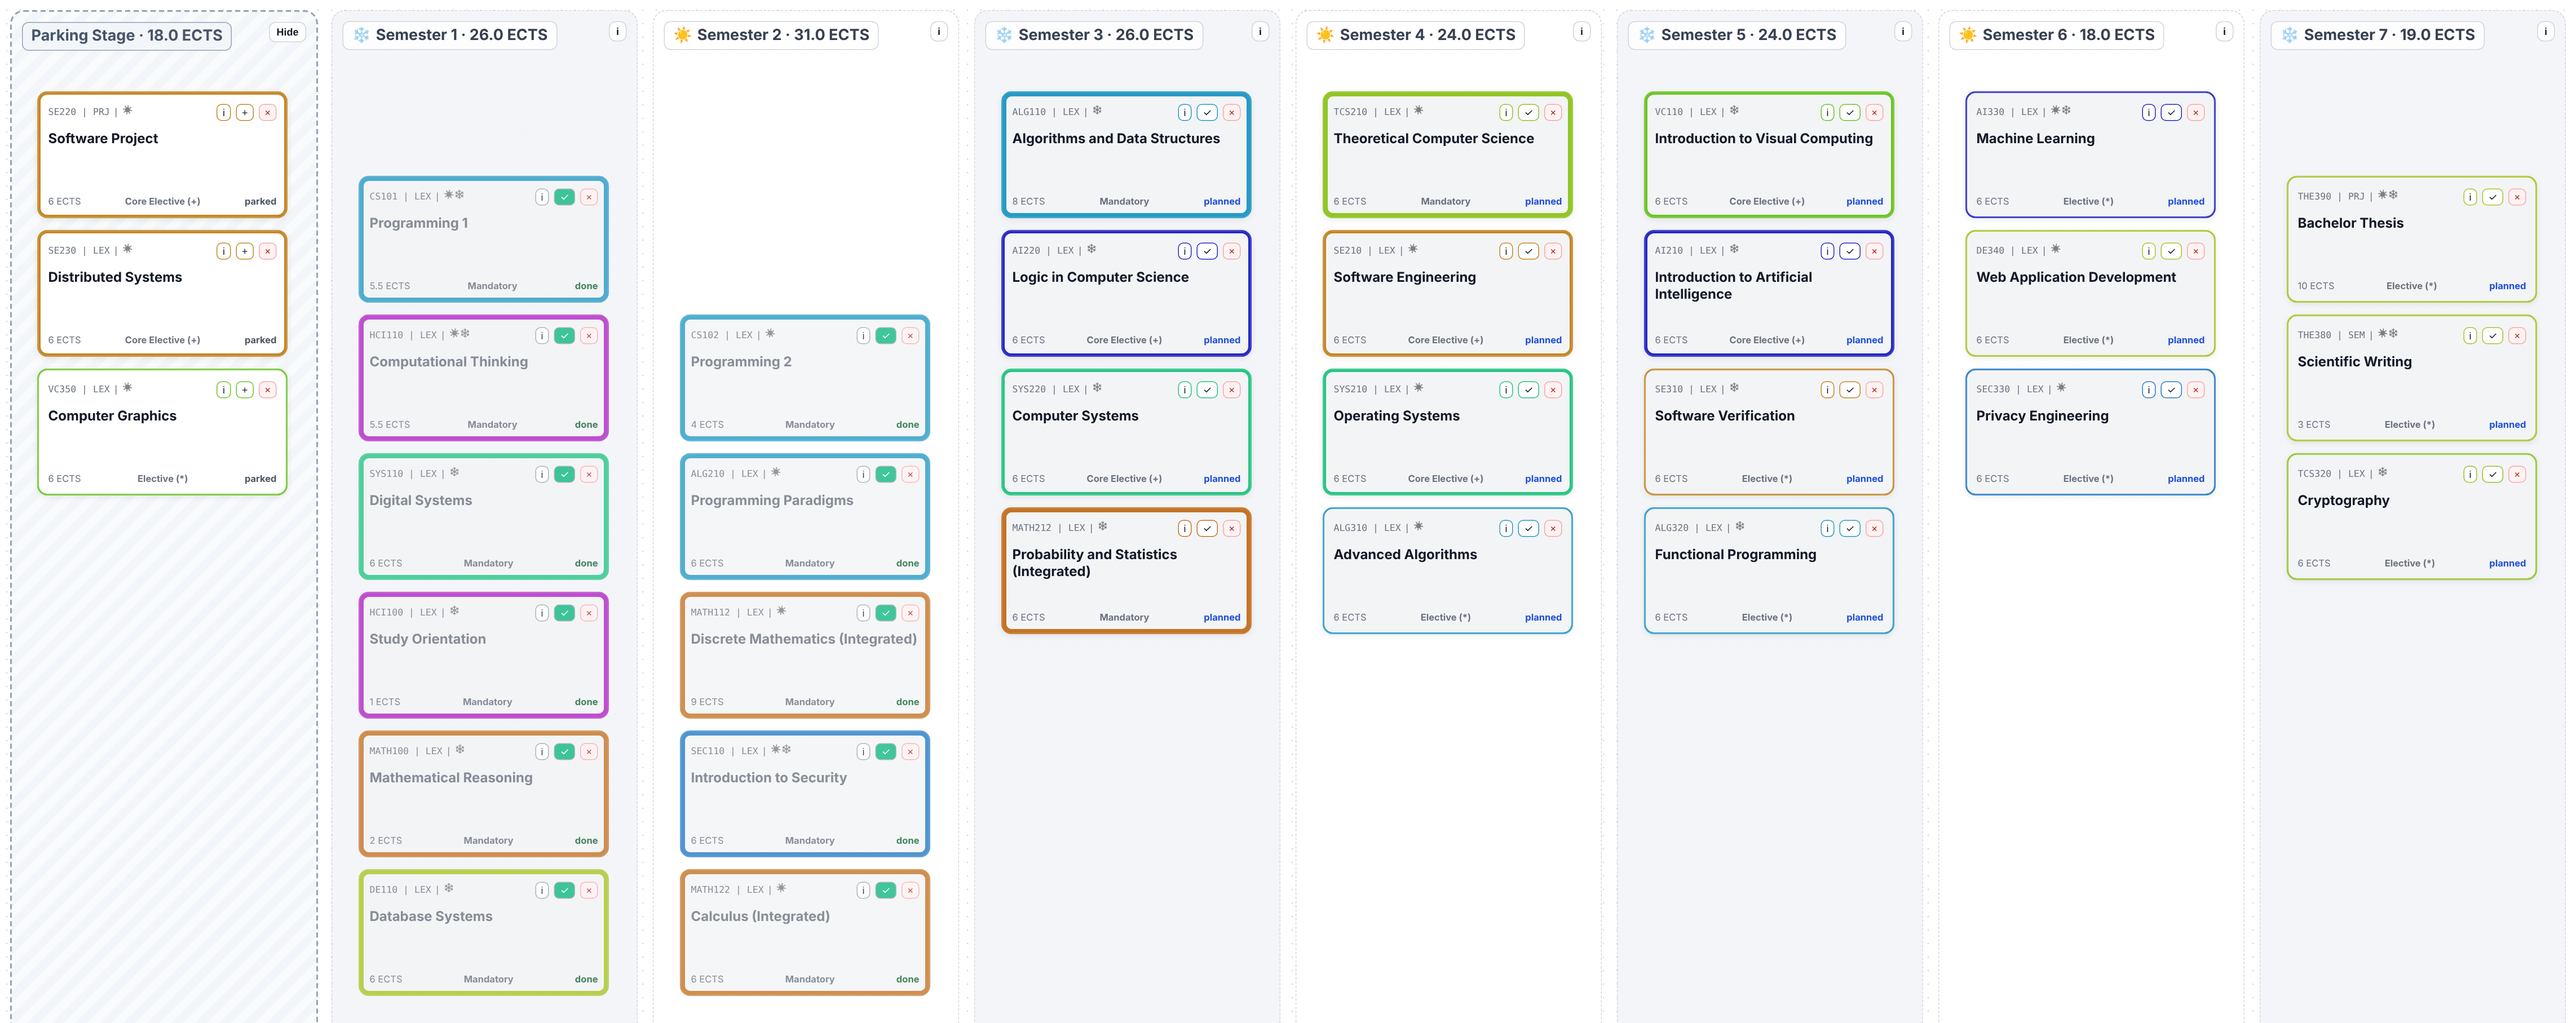
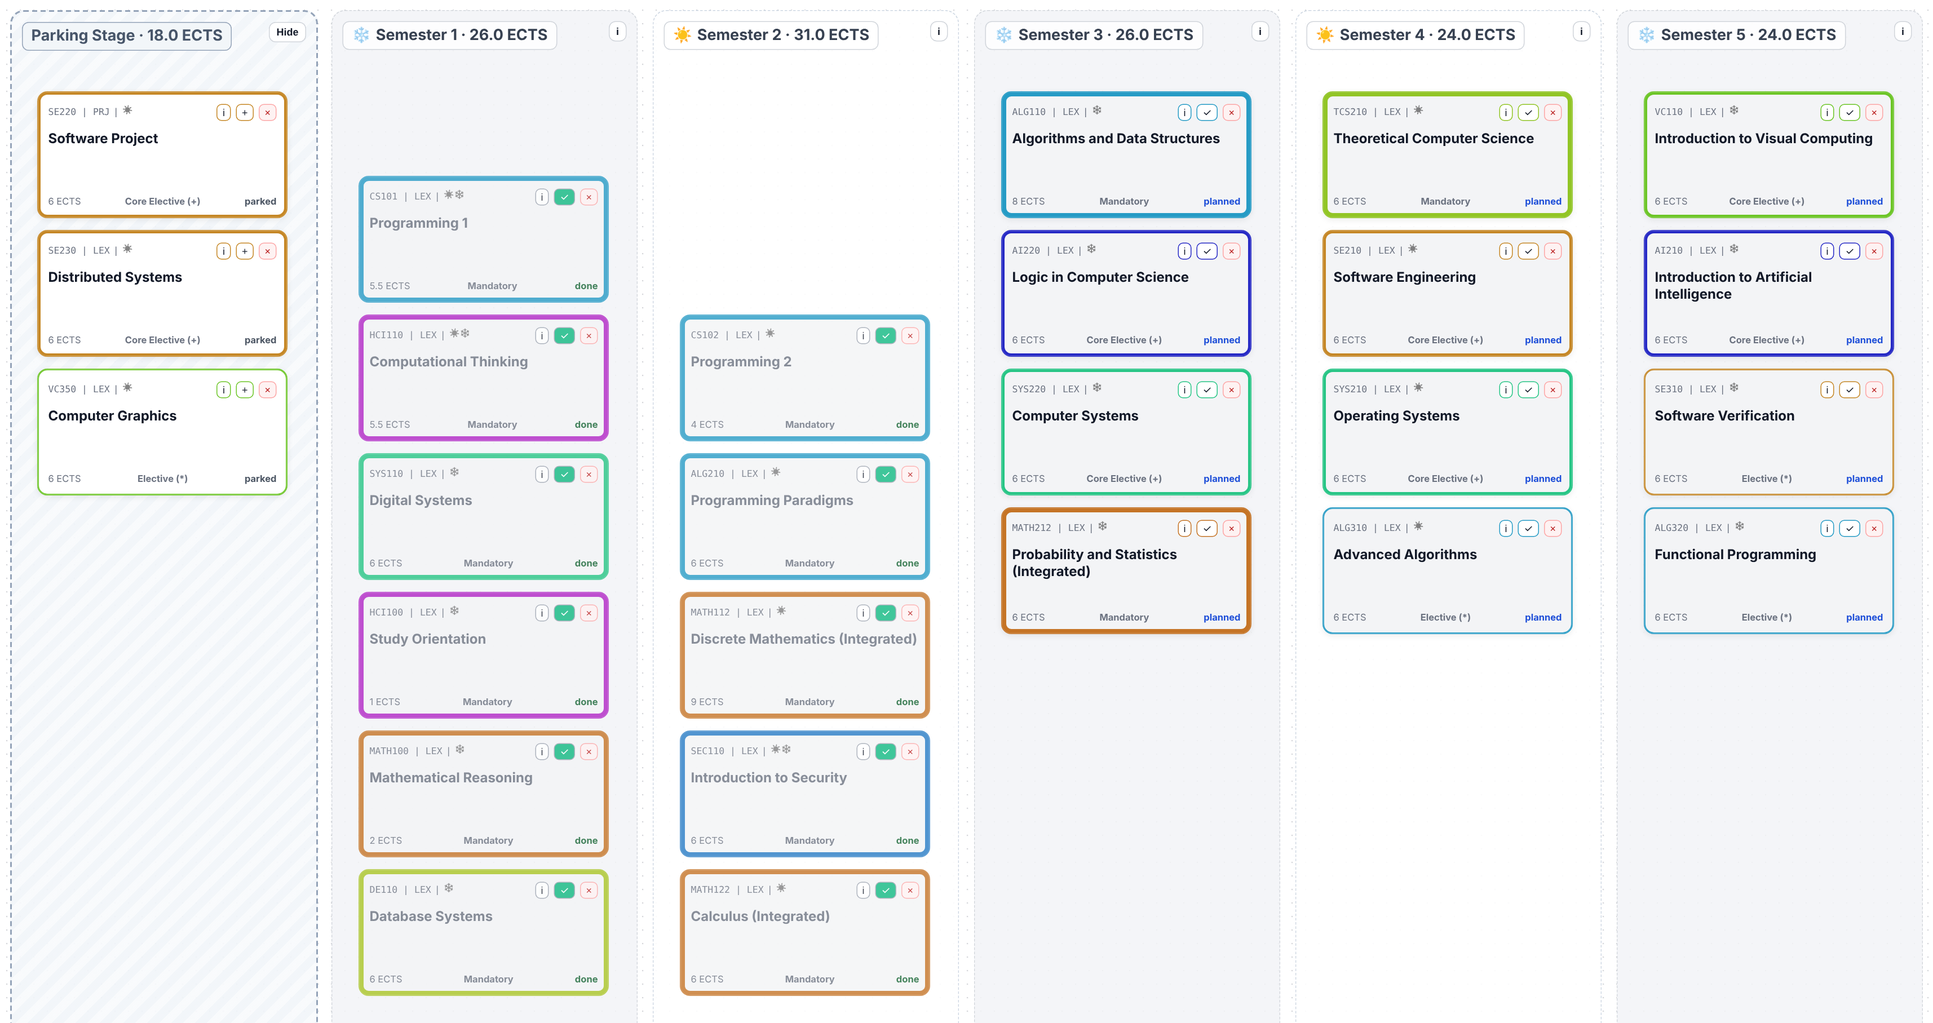
Crop Figure A to the Parking Stage and semesters 1-5
Claude-Session: https://claude.ai/code/session_019VCq3ESBZwQNJ8zcqfusNr

diff --git a/paper-figures/README.md b/paper-figures/README.md
@@ -11,7 +11,7 @@ branch. No application code, layout or styling was changed.
 
 | File | What it is |
 |---|---|
-| `table_view.png` | Figure A: Table View with Parking Stage and seven semester lanes |
+| `table_view.png` | Figure A: Table View with Parking Stage and semester lanes 1–5 |
 | `shell_graph_view_crop.png` | Figure B: filter panel, Graph View and Dashboard composed side by side |
 | `panel_filters.png`, `panel_graph.png`, `panel_dashboard.png` | The three single-panel crops of Figure B |
 | `fixture/mapping.json` | Real → generic names and codes (internal) |
@@ -29,15 +29,16 @@ All PNG, white background, rendered by Chromium (Playwright) with
 
 | Image | Pixels (w × h) |
 |---|---|
-| `table_view.png` | 4569 × 1815 |
+| `table_view.png` | 3429 × 1815 |
 | `shell_graph_view_crop.png` | 3609 × 3468 |
 | `panel_filters.png` | 999 × 2403 |
 | `panel_graph.png` | 1209 × 3468 |
 | `panel_dashboard.png` | 1329 × 3099 |
 
 Figure A: viewport 1600 × 1000 CSS px, sidebar hidden, board at React Flow's
-minimum zoom (0.5), cropped to the Parking Stage and lanes 1–7 down to the
-lowest card. Figure B: viewport 1600 × 1250 CSS px (taller so the Dashboard
+minimum zoom (0.5), cropped to the Parking Stage and lanes 1–5 down to the
+lowest card (the plan has seven semesters; 6–7 are left out of the crop so
+the cards stay legible at column width). Figure B: viewport 1600 × 1250 CSS px (taller so the Dashboard
 fits without scrolling), Graph View with "Algorithms and Programming" and
 "Software Engineering" expanded (plus the two-course module "Introduction to
 Programming", so all four levels show), fitted to view. The three panels are
